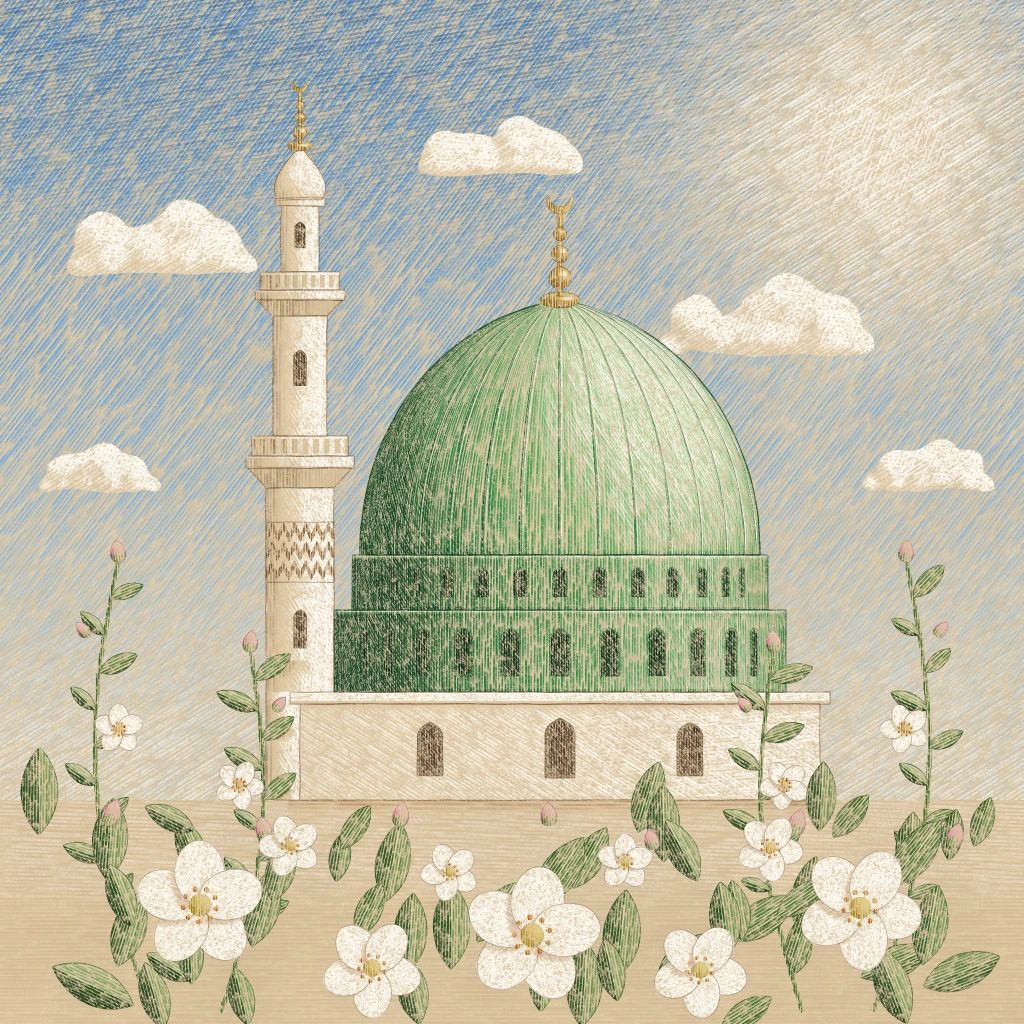
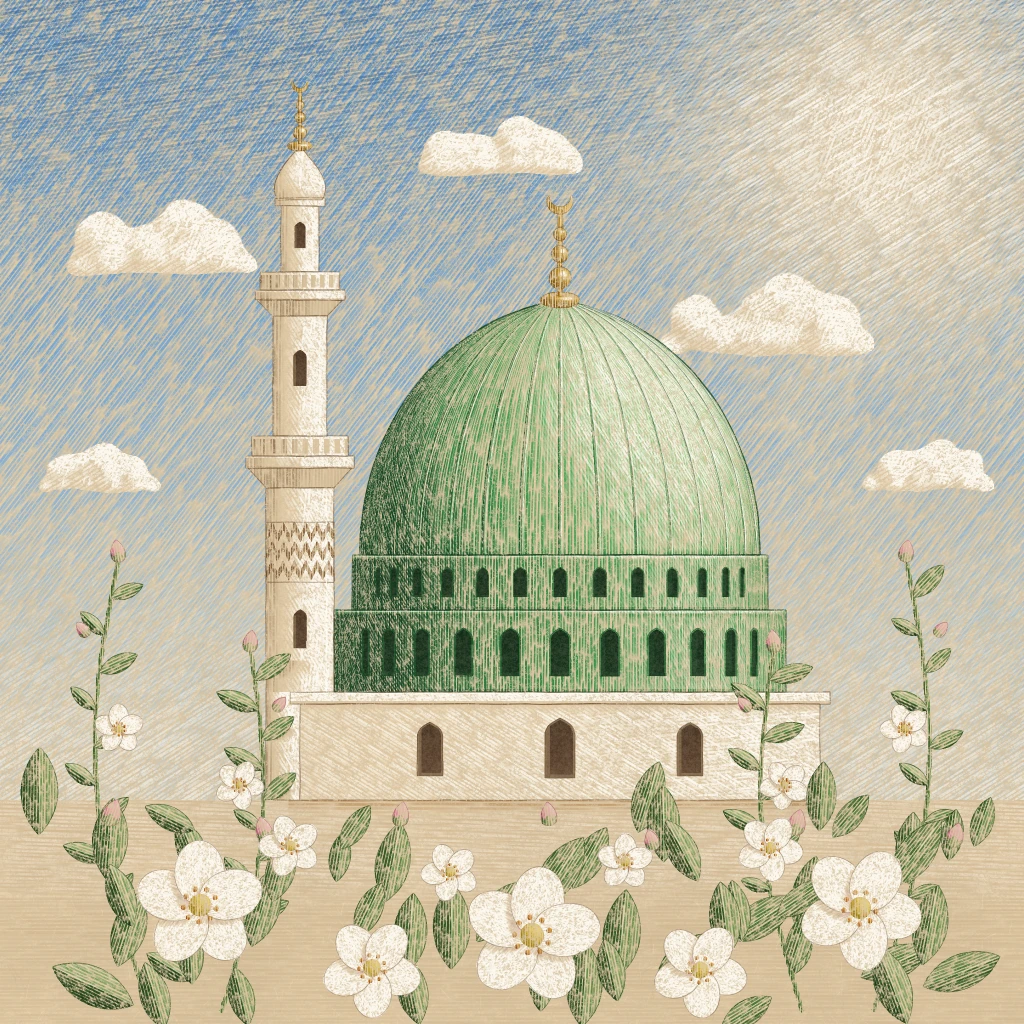
Atölye: suluboya ressam elleri (S-166–S-170) gözden geçirildi
Claude-Session: https://claude.ai/code/session_01Q8CfoBGMPN7gfLWQYpMs1J

diff --git a/atolye/stiller/S-170-mimari-lavi/ornek.html b/atolye/stiller/S-170-mimari-lavi/ornek.html
@@ -461,20 +461,55 @@
   const zemin = M.fMaske([0, 796, W, W], (x, y) => (y >= 800 ? 1 : 0));
   lavi(zemin, '#E3D3B0', 0.6, { koru: M.birles(korOn, mBina) });
   [860, 930, 990].forEach((ust) => lavi(M.fMaske([0, 796, W, W], (x, y) => (y >= ust ? 1 : 0)), '#D9C59E', 0.18, { koru: M.birles(korOn, mBina) }));
-  lavi(M.maske((c) => { c.translate(-10, 10); for (const d of Y.yapraklar) c.fill(P(d)); cicekAlan(c); }), '#AEA6B5', 0.35, { koru: M.birles(korOn, mBina), grad: (x, y) => (y > 802 ? 1 : 0) });
-  // yapraklar: düz soluk yeşil, gölge yarısı ikinci kat
-  lavi(M.yolMaske(Y.yapraklar), '#BDD3A8', 0.85, { koru: mOnde });
-  lavi(M.yolMaske(B.yapraklar.map((y) => { const nx = -Math.sin(y.aci), ny = Math.cos(y.aci); return yaprakYarisi(y, nx * LX + ny * LY > 0 ? -1 : 1); })), '#7FA683', 0.55, { koru: mOnde });
-  lavi(M.yolMaske(Y.tomurcuklar), '#E6B5C1', 0.8, { koru: mCicek });
-  lavi(M.maske((c) => { c.lineWidth = 2.6; for (const s2 of Y.saplar) c.stroke(P(s2)); }), '#9DBB86', 0.85, { koru: M.birles(mCicek, M.yolMaske(Y.yapraklar)) });
-  // çiçekler: beyaz kâğıt; ışıktan uzak taç yapraklara soluk gri-leylak, göbek sarı
+  // bitkilerin zemine düşen gölgesi: soluk, kısa ve kenarı yumuşatılmış tek lavi
+  lavi(M.mBulanik(M.maske((c) => { c.translate(-6, 6); for (const d of Y.yapraklar) c.fill(P(d)); cicekAlan(c); }), 2.5), '#B9B2C0', 0.2, { koru: M.birles(korOn, mBina), grad: (x, y) => (y > 802 ? 1 : 0), kenar: 0.05 });
+  // yapraklar: her yaprak açık sarı-yeşil bir zeminle başlar; sonra uçtan dibe ve kenardan orta damara doğru
+  // koyulaşan dereceli lavi katları; gölge yarısına ayrıca damar boyunca koyu, kenara doğru açılan bir kat.
+  // Arkadaki (yukarıdaki) yapraklar daha soluk ve serin, öndekiler daha sıcak.
+  const yapVeri = B.yapraklar.map((y, i) => ({ y, i, d: Y.yapraklar[i], t: R() }));
+  const yapGrad = (o, kuvvet) => {
+    const y = o.y, L = y.uzunluk, ca = Math.cos(y.aci), sa = Math.sin(y.aci), Wd = L * y.genislik;
+    return (x, yy) => {
+      const u = ((x - y.x) * ca + (yy - y.y) * sa) / L, v = Math.abs(-(x - y.x) * sa + (yy - y.y) * ca) / (Wd * 0.5 + 0.01);
+      return clamp(1 - kuvvet * (0.55 * clamp(u, 0, 1) + 0.45 * clamp(v, 0, 1)), 0.15, 1);
+    };
+  };
+  const uzak = (o) => sstep(900, 560, o.y.y); // yukarıdaki yapraklar uzak
+  for (const o of yapVeri) {
+    const m = M.yolMaske(o.d, 0, [o.y.x - o.y.uzunluk * 1.2, o.y.y - o.y.uzunluk * 1.2, o.y.x + o.y.uzunluk * 1.2, o.y.y + o.y.uzunluk * 1.2]);
+    const g1 = yapGrad(o, 0.85);
+    lavi(m, o.t < 0.5 ? '#D3E3B4' : '#C9DFB9', 0.85, { koru: mOnde, kenar: 0.12 });
+    lavi(m, o.t < 0.5 ? '#9DC08A' : '#8FB792', 0.55 - 0.18 * uzak(o), { koru: mOnde, kenar: 0.1, grad: g1 });
+    const nx = -Math.sin(o.y.aci), ny = Math.cos(o.y.aci);
+    const yari = M.yolMaske(yaprakYarisi(o.y, nx * LX + ny * LY > 0 ? -1 : 1), 0, [o.y.x - o.y.uzunluk * 1.2, o.y.y - o.y.uzunluk * 1.2, o.y.x + o.y.uzunluk * 1.2, o.y.y + o.y.uzunluk * 1.2]);
+    lavi(yari, '#6E9A7A', 0.5 - 0.15 * uzak(o), { koru: mOnde, kenar: 0.08, grad: yapGrad(o, 0.7) });
+  }
+  // tomurcuklar: soluk gül, gölge yanında ikinci kat
+  lavi(M.yolMaske(Y.tomurcuklar), '#EBC3CC', 0.8, { koru: mCicek });
+  lavi(M.kesis(M.yolMaske(Y.tomurcuklar), M.fMaske([0, 500, W, W], (x, y) => { for (const t of B.tomurcuklar) { const dx = x - t.x, dy = y - t.y; if (dx * dx + dy * dy < t.r * t.r * 4) return sstep(t.r * 0.1, -t.r * 0.7, dx * LX + dy * LY); } return 0; })), '#D395A8', 0.5, { koru: mCicek, kenar: 0.05 });
+  lavi(M.maske((c) => { c.lineWidth = 2.6; for (const s2 of Y.saplar) c.stroke(P(s2)); }), '#A9C493', 0.8, { koru: M.birles(mCicek, M.yolMaske(Y.yapraklar)) });
+  // çiçekler: beyaz kâğıt; her taç yaprak dipte soluk sıcak bir lavi ile başlar ve kenara doğru beyaza açılır;
+  // ışıktan uzak yapraklara dereceli gri-leylak, üst üste binen yaprağın ince gölgesi, göbekte sarı ve siena
   for (const f of cicekler) {
     const c = f.c;
-    const golgeli = f.tac.filter((t) => Math.cos(t.a) * LX + Math.sin(t.a) * LY < -0.2).map((t) => t.d);
-    lavi(M.cikar(M.yolMaske(golgeli), M.yolMaske(SAHNE.daireYolu(c.x, c.y, c.r * 0.22))), '#D9D4E0', 0.6, { grad: (x, y) => 0.55 + 0.6 * sstep(c.r * 1.0, c.r * 0.2, Math.hypot(x - c.x, y - c.y)) });
-    lavi(M.yolMaske([...f.tac.map((t) => t.d), SAHNE.daireYolu(c.x, c.y, c.r * 0.26)]), '#E6E0E8', 0.35, { grad: (x, y) => sstep(c.r * 0.75, c.r * 0.25, Math.hypot(x - c.x, y - c.y)) });
+    const kt = [c.x - c.r * 1.3, c.y - c.r * 1.3, c.x + c.r * 1.3, c.y + c.r * 1.3];
+    const mUz = (x, y) => Math.hypot(x - c.x, y - c.y) / c.r;
+    const tum = M.yolMaske(f.tac.map((t) => t.d), 0, kt);
+    lavi(tum, '#F1E7D6', 0.42, { kenar: 0.04, grad: (x, y) => sstep(0.7, 0.22, mUz(x, y)) });
+    f.tac.forEach((t, k) => {
+      const yon = Math.cos(t.a) * LX + Math.sin(t.a) * LY;
+      if (yon > 0.35) return;
+      const m = M.cikar(M.yolMaske(t.d, 0, kt), M.yolMaske(SAHNE.daireYolu(c.x, c.y, c.r * 0.22), 0, kt));
+      lavi(m, '#DAD4E4', 0.25 + 0.35 * (0.35 - yon) / 1.35, { kenar: 0.08, grad: (x, y) => 0.35 + 0.75 * sstep(1.0, 0.3, mUz(x, y)) });
+    });
+    for (let k = 0; k < 5; k++) {
+      const ust = f.tac[k], alt = f.tac[(k + 1) % 5];
+      const g = M.maske((cx) => { cx.save(); cx.clip(P(alt.d)); cx.translate(-1.8, 2.2); cx.lineWidth = 3; cx.stroke(P(ust.d)); cx.restore(); cx.globalCompositeOperation = 'destination-out'; cx.fill(P(ust.d)); cx.beginPath(); cx.arc(c.x, c.y, c.r * 0.24, 0, Math.PI * 2); cx.fill(); }, kt);
+      lavi(M.mBulanik(g, 1), '#CFC8DA', 0.45, { kenar: 0.02 });
+    }
   }
   lavi(M.maske((c) => { for (const f of cicekler) { c.beginPath(); c.arc(f.c.x, f.c.y, f.c.r * 0.2, 0, Math.PI * 2); c.fill(); } }), '#EBC65C', 0.85);
+  lavi(M.kesis(M.maske((c) => { for (const f of cicekler) { c.beginPath(); c.arc(f.c.x, f.c.y, f.c.r * 0.2, 0, Math.PI * 2); c.fill(); } }), M.fMaske([0, 500, W, W], (x, y) => { for (const f of cicekler) { const dx = x - f.c.x, dy = y - f.c.y; if (dx * dx + dy * dy < f.c.r * f.c.r * 0.06) return sstep(0, -f.c.r * 0.2, dx * LX + dy * LY); } return 0; })), '#BE8A3A', 0.5, { kenar: 0.05 });
 
   // ------------------------------------------------------------ 5. mürekkep: cetvel, pergel ve eğri cetvel çizgileri
   const cizgiler = M.maske((c) => {
@@ -510,6 +545,15 @@
     // peyzaj: önce bitkinin kapladığı yerdeki yapı çizgileri silinir, sonra arkadan öne her biçim önündekini örter
     const sil = (fn) => { c.save(); c.globalCompositeOperation = 'destination-out'; c.globalAlpha = 1; fn(); c.restore(); };
     sil(() => { c.lineWidth = 3; for (const s2 of Y.saplar) c.stroke(P(s2)); for (const d of Y.yapraklar) c.fill(P(d)); for (const d of Y.tomurcuklar) c.fill(P(d)); cicekAlan(c); });
+    // çerçeve: ince çift çizgi
+    dikdortgen(c, 14, 14, W - 14, W - 14, 1.1);
+    dikdortgen(c, 19, 19, W - 19, W - 19, 0.45);
+  });
+  M.yika(cizgiler, MUREKKEP, { yog: 0.82, kenar: 0, gran: 0.03, akis: 0.08, titre: 0.15 });
+  // peyzaj çizgileri ayrı ve daha açık: seyreltilmiş sıcak sepya, ince uçlu kalemle; arkadan öne her biçim
+  // önündekini örter (çizgileri silinir), öndeki biçimin konturu kalır
+  const bitkiCizgi = M.maske((c) => {
+    const sil = (fn) => { c.save(); c.globalCompositeOperation = 'destination-out'; c.globalAlpha = 1; fn(); c.restore(); };
     c.lineWidth = 0.75; for (const s2 of Y.saplar) c.stroke(P(s2));
     B.yapraklar.forEach((y, i) => {
       const d = Y.yapraklar[i];
@@ -526,14 +570,10 @@
       sil(() => { c.beginPath(); c.arc(f.c.x, f.c.y, f.c.r * 0.2, 0, Math.PI * 2); c.fill(); });
       c.beginPath(); c.arc(f.c.x, f.c.y, f.c.r * 0.2, 0, Math.PI * 2); c.lineWidth = 0.5; c.stroke();
     }
-    // çerçeve: ince çift çizgi
-    dikdortgen(c, 14, 14, W - 14, W - 14, 1.1);
-    dikdortgen(c, 19, 19, W - 19, W - 19, 0.45);
   });
-  // çiçeklerin altında kalan çizgiler silinir (öndeki biçim çizgisi kalır): taç yaprak üst üste binmesi
-  M.yika(cizgiler, MUREKKEP, { yog: 0.82, kenar: 0, gran: 0.03, akis: 0.08, titre: 0.15 });
+  M.yika(bitkiCizgi, '#7A6450', { yog: 0.55, kenar: 0, gran: 0.03, akis: 0.08, titre: 0.15 });
   // çiçek göbeklerinde ince mürekkep noktaları
-  M.yika(M.maske((c) => { for (const f of cicekler) for (let i = 0; i < 9; i++) { const a = (i / 9) * Math.PI * 2 + f.c.aci, rr = f.c.r * 0.27; c.beginPath(); c.arc(f.c.x + Math.cos(a) * rr, f.c.y + Math.sin(a) * rr, Math.max(0.8, f.c.r * 0.022), 0, Math.PI * 2); c.fill(); } }), MUREKKEP, { yog: 0.8, kenar: 0 });
+  M.yika(M.maske((c) => { for (const f of cicekler) for (let i = 0; i < 9; i++) { const a = (i / 9) * Math.PI * 2 + f.c.aci, rr = f.c.r * 0.27; c.beginPath(); c.arc(f.c.x + Math.cos(a) * rr, f.c.y + Math.sin(a) * rr, Math.max(0.8, f.c.r * 0.022), 0, Math.PI * 2); c.fill(); } }), '#7A6450', { yog: 0.75, kenar: 0 });
 
   M.bitir(ctx);
   SAHNE.hazir();

diff --git a/atolye/stiller/S-193-suluboya-ve-renkli-kalem/ornek.html b/atolye/stiller/S-193-suluboya-ve-renkli-kalem/ornek.html
@@ -13,9 +13,10 @@
 <script src="../../sahne/sahne.js"></script>
 <script>
 // S-193 Suluboya ve Renkli Kalem — hayalî bir çağdaş illüstratörün eli.
-// Parlak beyaz soğuk preslenmiş kâğıda önce yumuşak, saydam suluboya lavileri (açık zemin
-// rengi, kuruyunca sert kenarlı ikinci-üçüncü sır, kenarda pigment birikmesi); sonra üstüne
-// renkli kalemle ayrıntı: her öğenin kendi koyu renginde ince kontur, kubbe kaburgaları,
+// Parlak beyaz soğuk preslenmiş kâğıda önce üst üste saydam suluboya sırları: ıslakta karışan,
+// tanelenen gök (bulutlar boyanmadan kâğıt), dilim dilim boyanmış kubbe (her dilim ayrı lavi,
+// kenarında pigment birikmesi, ışıklı dilimlerde korunmuş kâğıt şeritleri), iki tonlu yapraklar;
+// sonra renkli kalemle ayrıntı: her öğenin kendi koyu renginde ince kontur, kubbe kaburgaları,
 // yaprak ve taç damarları, gölgelerde tek yönlü düzenli çapraz tarama, taşta derz çizgileri.
 (function () {
   'use strict';

diff --git a/atolye/stiller/S-191-renkli-kalem-gercekci/ornek.html b/atolye/stiller/S-191-renkli-kalem-gercekci/ornek.html
@@ -14,9 +14,9 @@
 <script>
 // S-191 Renkli Kalem Gerçekçi — hayalî bir fotogerçekçi renkli kalem ressamının eli.
 // Sıcak beyaz, ince dişli bristol kâğıt; yağ/mum bazlı renkli kalemlerle form yönünde, üst üste
-// 3–4 kat ince tarama; koyu alanlar sert bastırılıp cilalanmış (diş tamamen dolu, pürüzsüz),
-// açık alanlarda kâğıdın beyazı yalnız diş çukurlarında nokta nokta görünür. Kenarlar keskin,
-// geçişler yumuşak; kubbe kaburgaları ışıklı/gölgeli iki ince çizgi olarak modellenmiş.
+// üç renkli kat tarama (gökte kobalt, mor-mavi, turkuaz katlar gözle seçilir); orta tonlarda vuruş
+// ve kâğıt dişi görünür, yalnız en koyu yerler sert bastırılıp cilalanmış. Bulutlar kâğıt beyazı,
+// gölge yanları mavi-gri ve leylak kalemle hafif taranmış. Kenarlar keskin, geçişler yumuşak.
 (function () {
   'use strict';
   try {

diff --git a/atolye/stiller/S-194-mavi-kagitta-pastel/ornek.html b/atolye/stiller/S-194-mavi-kagitta-pastel/ornek.html
@@ -986,8 +986,8 @@
   ogeKat(2, 12, 12, 22, 6, 0.75, (t, lt) => 0.55 * sstep(0.45, 0.15, lt), 0.06);
   ogeKat(2, 11, 11, 16, 5, 0, (t, lt) => (lt > 0.68 ? 0.55 + 0.4 * sstep(0.68, 0.95, lt) : 0), 0.1);
   // taş: ışıkta krem-beyaz, gölge kâğıtta (leylak birkaç vuruş)
-  ogeKat(3, 9, 10, 24, 5.5, 0, (t, lt) => 0.1 + 0.85 * sstep(0.3, 0.8, lt), 0.06, -1.05);
-  ogeKat(3, 10, 11, 20, 5, 0, (t, lt) => 0.75 * sstep(0.45, 0.85, lt), 0.06, -0.45);
+  ogeKat(3, 9, 10, 24, 5.5, 0, (t, lt) => (t === T_MTOPUZ ? 0.45 : 0.1) + 0.85 * sstep(0.3, 0.8, lt), 0.06, -1.05);
+  ogeKat(3, 10, 11, 20, 5, 0, (t, lt) => (t === T_MTOPUZ ? 0.35 : 0) + 0.75 * sstep(0.45, 0.85, lt), 0.06, -0.45);
   {
     const c = tuv[3].c;
     tara(280, 80, 840, 800, 11, 11, (x, y) => {

diff --git a/atolye/stiller/S-192-kraft-kagitta-renkli-kalem/ornek.html b/atolye/stiller/S-192-kraft-kagitta-renkli-kalem/ornek.html
@@ -967,6 +967,13 @@
     }
     const a = tarama(fu, fv, ar, boy, 0.46, 51);
     let fr = PR[i], fg = PG[i], fb = PB[i];
+    if (tip === T_MPENC || tip === T_KPENC || tip === T_KASPENC) {
+      // pencere içleri: koyu kalemle sık, iki yönde sıkıca doldurulmuş (kenarı net)
+      const k = 0.82 + 0.16 * d;
+      fr += (r * 0.8 - fr) * k; fg += (g * 0.8 - fg) * k; fb += (bl * 0.8 - fb) * k;
+      OR[i] = fr; OG[i] = fg; OB[i] = fb;
+      continue;
+    }
     if (c1 > 0) {
       const k = dep(a * c1, d) * (KUCUK.has(tip) ? 1 : 0.94);
       fr += (r - fr) * k; fg += (g - fg) * k; fb += (bl - fb) * k;
